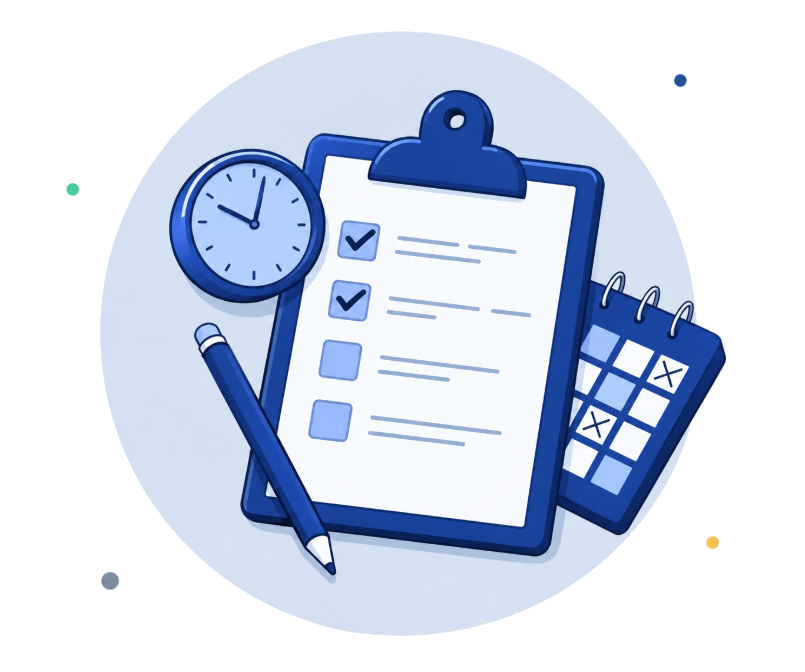
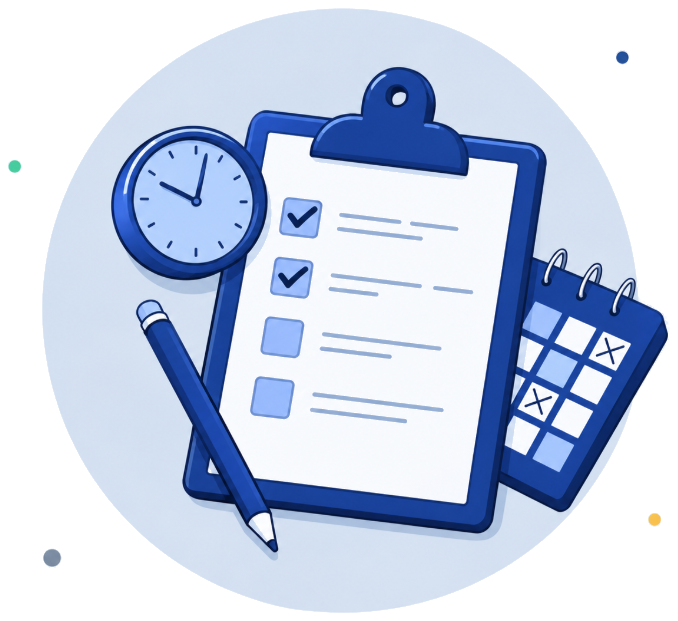
Security enforcement and Anti-spam email template

diff --git a/client/src/components/Landing.css b/client/src/components/Landing.css
@@ -278,8 +278,8 @@
   position: relative;
   left: 0;
   z-index: 3;
-  width: min(540px, 100%);
-  max-width: 540px;
+  width: 100%;
+  max-width: 600px;
   margin: 0 auto;
   display: flex;
   align-items: center;
@@ -295,9 +295,9 @@
   display: block;
   width: 100%;
   height: auto;
-  max-height: 540px;
+  max-height: 580px;
   object-fit: contain;
-  filter: drop-shadow(0 14px 32px rgba(16, 45, 116, 0.10));
+  filter: drop-shadow(0 16px 36px rgba(16, 45, 116, 0.12));
 }
 
 /* Scattered Decorative Dots */
@@ -1527,7 +1527,8 @@
   }
 
   .hero-illustration {
-    width: min(450px, calc(90vw - 24px));
+    width: min(520px, calc(95vw - 24px));
+    max-width: 520px;
     left: 0;
     margin: 0 auto;
   }
